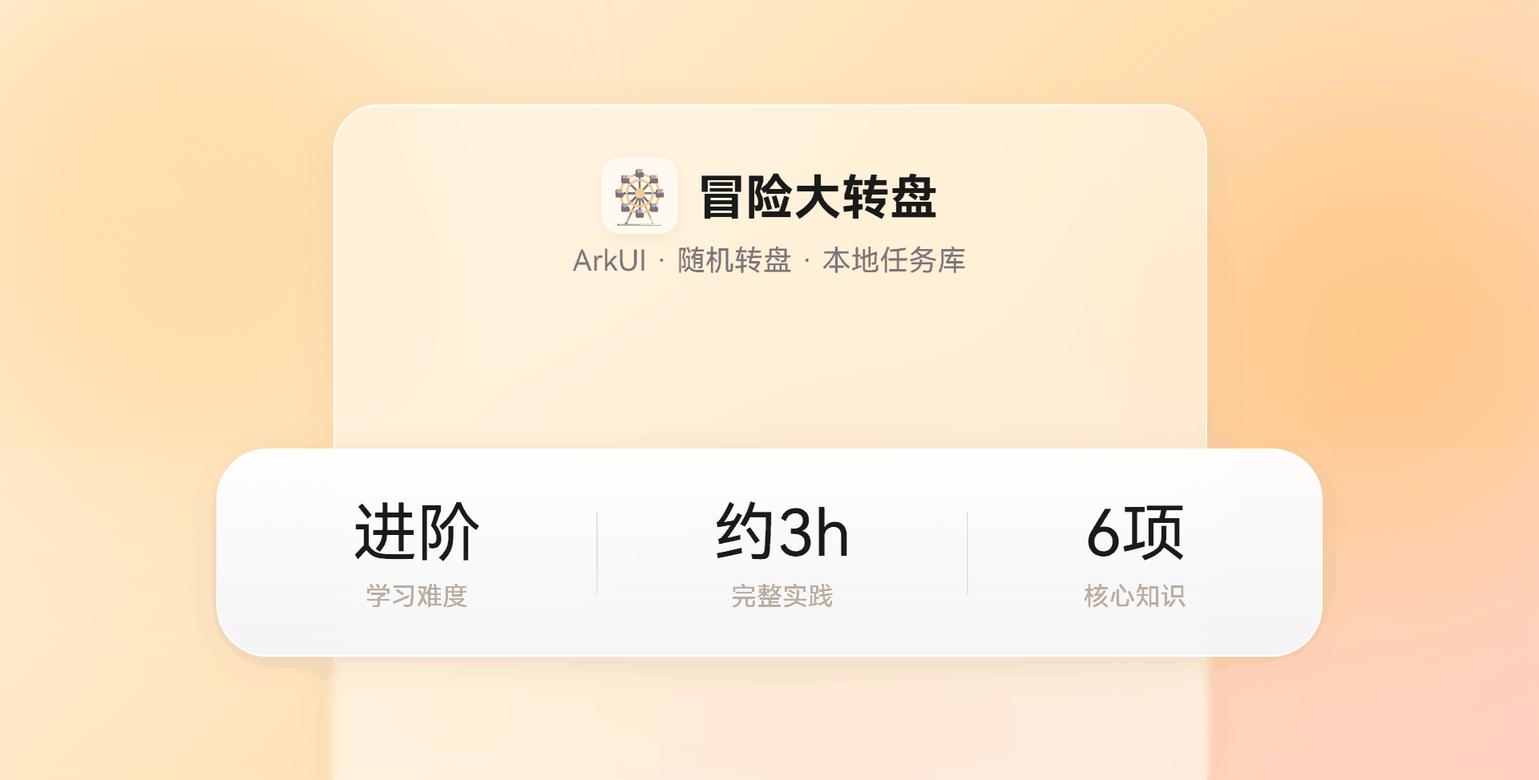
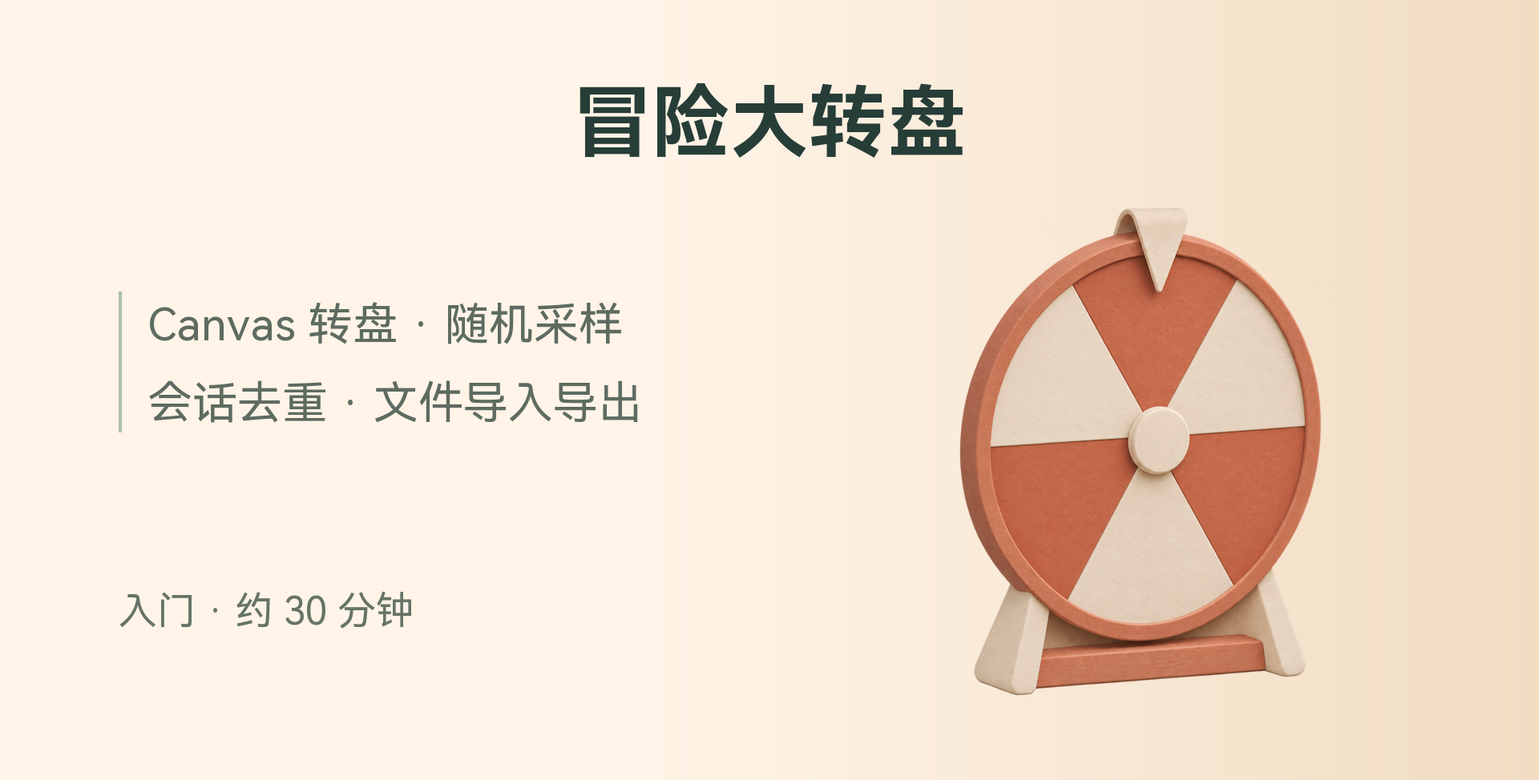
修复案例发布资料并同步快速体验档位

diff --git a/cases/practice.html b/cases/practice.html
@@ -1,16 +1,16 @@
 <h2 id="快速体验">快速体验</h2>
-<p>这条路线使用现成代码。环境就绪后预计 15–30 分钟，完成“生成清单 → 确认开局 → 抽取并交接 → 浏览任务库”。从空项目制作请看完整实践。</p>
+<p>这条路线使用现成代码。环境就绪后预计 30 分钟，完成“生成清单 → 确认开局 → 抽取并交接 → 浏览任务库”。从空项目制作请看完整实践。</p>
 <p>本案例为纯本地手机元服务：目标 API 23、最低兼容 API 20。首次获取源码、素材、SDK 和依赖时需联网，SDK、Java、Node 与构建工具须匹配，玩法不依赖服务器、数据库或游戏账号。选择云端或本地路线即可；在线工作区与云手机的配额或费用以实际账号及平台提示为准。</p>
 <p>公开工程默认不配置签名，可生成无签名 HAP。本地模拟器按官方无签名方式调试；真机使用自己的调试签名，云手机按平台实际要求。签名、口令与私人任务不提交公仓；登录、隐私同意与授权由本人决定。构建、安装与启动分别核对。</p>
 <h3 id="云端快速体验">云端快速体验</h3>
 <h4 id="第一步创建项目并导入案例">第一步：创建项目并导入案例</h4>
 <p>从<a href="https://harmonybp.developer.huaweicloud.com/">鸿蒙开发实践中心</a>案例详情进入“云端开发环境”，核对自动带入信息后创建项目。</p>
 <p>直接进入作业中心时，选择“新建项目”，填写项目名称，技术模板选“空项目”，在“案例仓地址”填写：</p>
-<pre style="white-space:pre-wrap;overflow-wrap:anywhere;word-break:break-word;max-width:100%;padding:16px;background:#f6f1e9;border-radius:10px"><code>https://gitcode.com/harmony-practice-center/HarmonyOS-AtomSer-AdventureWheel</code></pre>
+<pre><code>https://gitcode.com/harmony-practice-center/HarmonyOS-AtomSer-AdventureWheel</code></pre>
 <p>“Git 仓库地址”用于自己的版本管理，快速体验可留空；不是“案例仓地址”。</p>
 <p>完成标志：开发环境中有 <code>AppScope/</code>、<code>entry/</code>、<code>build-profile.json5</code> 和 <code>oh-package.json5</code>。</p>
 <h4 id="第二步让-ai-编译打包">第二步：让 AI 编译打包</h4>
-<pre style="white-space:pre-wrap;overflow-wrap:anywhere;word-break:break-word;max-width:100%;padding:16px;background:#f6f1e9;border-radius:10px"><code>请解析当前“冒险大转盘”工程，找到 HarmonyOS 入口，
+<pre><code>请解析当前“冒险大转盘”工程，找到 HarmonyOS 入口，
 检查现有 SDK、依赖和构建工具，编译生成 HAP。
 可自行处理的问题根据日志修复并重新构建，保持现有功能、包名、
 目标 API 23 和最低兼容 API 20。
@@ -21,7 +21,7 @@
 <p>进入“设备管理 → 鸿蒙云手机”，按当前平台流程选择满足工程要求的手机镜像，创建并连接设备。</p>
 <p>完成标志：云手机运行，开发环境能识别设备。</p>
 <h4 id="第四步让-ai-安装并打开">第四步：让 AI 安装并打开</h4>
-<pre style="white-space:pre-wrap;overflow-wrap:anywhere;word-break:break-word;max-width:100%;padding:16px;background:#f6f1e9;border-radius:10px"><code>请识别已连接的鸿蒙云手机，将刚才生成的 HAP 推送、安装，
+<pre><code>请识别已连接的鸿蒙云手机，将刚才生成的 HAP 推送、安装，
 并启动“冒险大转盘”元服务。多个设备时先列出让我选择。
 失败时依据实际错误排查；需要我准备签名或操作时告诉我。
 完成后告诉我使用的设备，以及是否已打开首页。</code></pre>
@@ -39,13 +39,13 @@
 <p>按<a href="https://support.huaweicloud.com/usermanual-codeartsagent/codeartsagent_ug_0002.html">码道安装指导</a>准备 IDE，安装 <a href="https://developer.huawei.com/consumer/cn/deveco-studio/resources/">HarmonyOS Command Line Tools</a>，工具用法见<a href="https://developer.huawei.com/consumer/cn/doc/harmonyos-guides/ide-commandline-get">官方指导</a>。</p>
 <p>完成标志：码道能打开文件夹并使用 AI 对话，命令行工具就绪。</p>
 <h4 id="第二步让-ai-获取案例代码">第二步：让 AI 获取案例代码</h4>
-<pre style="white-space:pre-wrap;overflow-wrap:anywhere;word-break:break-word;max-width:100%;padding:16px;background:#f6f1e9;border-radius:10px"><code>请把下面的“冒险大转盘”案例拉取到当前工作区的独立目录：
+<pre><code>请把下面的“冒险大转盘”案例拉取到当前工作区的独立目录：
 https://gitcode.com/harmony-practice-center/HarmonyOS-AtomSer-AdventureWheel
 使用默认分支最新代码，保留已有文件，不覆盖已有工程。
 完成后找到 HarmonyOS 工程入口，告诉我代码位置和接下来使用的目录。</code></pre>
 <p>完成标志：案例目录有 <code>AppScope/</code>、<code>entry/</code>、<code>build-profile.json5</code> 和 <code>oh-package.json5</code>。</p>
 <h4 id="第三步让-ai-编译打包">第三步：让 AI 编译打包</h4>
-<pre style="white-space:pre-wrap;overflow-wrap:anywhere;word-break:break-word;max-width:100%;padding:16px;background:#f6f1e9;border-radius:10px"><code>请解析刚才获取的“冒险大转盘”，检查本机 SDK、依赖和构建工具，
+<pre><code>请解析刚才获取的“冒险大转盘”，检查本机 SDK、依赖和构建工具，
 使用已有工具编译生成 HAP。可自行处理的问题根据日志修复并重新构建，
 保持现有功能、包名、目标 API 23 和最低兼容 API 20。
 需要安装工具、修改环境或变更需求时，先说明，由我决定。
@@ -53,13 +53,13 @@ https://gitcode.com/harmony-practice-center/HarmonyOS-AtomSer-AdventureWheel
 <p>完成标志：构建成功，HAP 存在。</p>
 <h4 id="第四步准备模拟器">第四步：准备模拟器</h4>
 <p>按<a href="https://developer.huawei.com/consumer/cn/doc/HarmonyOS-Guides/ide-emulator-create">官方指导</a>准备手机模拟器；已有模拟器可复用。在码道输入：</p>
-<pre style="white-space:pre-wrap;overflow-wrap:anywhere;word-break:break-word;max-width:100%;padding:16px;background:#f6f1e9;border-radius:10px"><code>请检查本机现有 HarmonyOS 模拟器及连接状态。
+<pre><code>请检查本机现有 HarmonyOS 模拟器及连接状态。
 有符合工程要求的模拟器时启动并确认连接。
 如需创建设备、下载镜像或修改环境，先告诉我如何处理，由我决定。
 告诉我可用目标；若未识别到设备，请定位连接问题并给出恢复方式。</code></pre>
 <p>完成标志：模拟器运行，AI 能识别设备。</p>
 <h4 id="第五步让-ai-安装并打开">第五步：让 AI 安装并打开</h4>
-<pre style="white-space:pre-wrap;overflow-wrap:anywhere;word-break:break-word;max-width:100%;padding:16px;background:#f6f1e9;border-radius:10px"><code>请识别本机已启动并连接的 HarmonyOS 模拟器，
+<pre><code>请识别本机已启动并连接的 HarmonyOS 模拟器，
 将刚才生成的 HAP 推送、安装，并启动“冒险大转盘”元服务。
 本地模拟器优先按官方无签名方式调试，不要先要求我准备真机签名。
 多个设备时先列出让我选择。失败时依据实际错误排查；
@@ -79,7 +79,7 @@ https://gitcode.com/harmony-practice-center/HarmonyOS-AtomSer-AdventureWheel
 <p>按顺序使用提示词，每步核对完成标志再继续。需求与技术文档保存在自己的项目中，后续都以它们为依据；不同工具可能需要多轮修复，不承诺一次生成相同作品。</p>
 <h3 id="统一教学素材">统一教学素材</h3>
 <p>教学素材采用“基础 v1.0 ＋ 2026-10-24 勘误”：190 条内置任务和 2026-10-02 的中文手机模拟器原图。固定下载保持原始版本；取得素材时按下方提示校订 truth-090 正文和文件大小单位，校订后再开发。字段和用途见<a href="https://gitcode.com/harmony-practice-center/HarmonyOS-AtomSer-AdventureWheel/blob/master/docs/%E5%AE%9E%E8%B7%B5%E7%B4%A0%E6%9D%90%E8%AF%B4%E6%98%8E.md">实践素材说明</a>，迁移契约见<a href="https://gitcode.com/harmony-practice-center/HarmonyOS-AtomSer-AdventureWheel/blob/master/docs/%E4%BB%BB%E5%8A%A1%E6%96%87%E4%BB%B6%E6%A0%BC%E5%BC%8F.md">任务文件格式</a>。</p>
-<table style="border-collapse:collapse;width:100%">
+<table>
 <thead>
 <tr>
 <th>素材</th>
@@ -141,7 +141,7 @@ https://gitcode.com/harmony-practice-center/HarmonyOS-AtomSer-AdventureWheel
 <h3 id="步骤-1检查空项目与开发环境">步骤 1：检查空项目与开发环境</h3>
 <p>目标：确认工具条件，不修改环境、不创建工程。</p>
 <p>复制给 AI：</p>
-<pre style="white-space:pre-wrap;overflow-wrap:anywhere;word-break:break-word;max-width:100%;padding:16px;background:#f6f1e9;border-radius:10px"><code>我准备开发一个叫“冒险大转盘”的鸿蒙元服务。
+<pre><code>我准备开发一个叫“冒险大转盘”的鸿蒙元服务。
 请先只读检查当前工作区及必要的开发工具，包括 SDK、构建工具和设备连接。
 能检查的自己检查，使用已有工具，先不要创建项目。
 如果缺少工具、需要下载镜像或修改环境，告诉我怎么处理，由我决定。</code></pre>
@@ -149,7 +149,7 @@ https://gitcode.com/harmony-practice-center/HarmonyOS-AtomSer-AdventureWheel
 <h3 id="步骤-2取得素材确定产品与视觉方案">步骤 2：取得素材，确定产品与视觉方案</h3>
 <p>目标：固定数据与体验，输出后续可引用的需求和技术文档。</p>
 <p>复制给 AI：</p>
-<pre style="white-space:pre-wrap;overflow-wrap:anywhere;word-break:break-word;max-width:100%;padding:16px;background:#f6f1e9;border-radius:10px"><code>请只下载下列教学素材到 reference/，不要克隆案例源码。
+<pre><code>请只下载下列教学素材到 reference/，不要克隆案例源码。
 内置任务-v1.0.json：https://api.gitcode.com/api/v5/repos/harmony-practice-center/HarmonyOS-AtomSer-AdventureWheel/raw/data/%E5%86%85%E7%BD%AE%E4%BB%BB%E5%8A%A1-v1.0.json?ref=abe5f1bffcf0c801f5d9a530d4b49a321456cb7e
 实践素材说明.md：https://api.gitcode.com/api/v5/repos/harmony-practice-center/HarmonyOS-AtomSer-AdventureWheel/raw/docs/%E5%AE%9E%E8%B7%B5%E7%B4%A0%E6%9D%90%E8%AF%B4%E6%98%8E.md?ref=abe5f1bffcf0c801f5d9a530d4b49a321456cb7e
 任务文件格式.md：https://api.gitcode.com/api/v5/repos/harmony-practice-center/HarmonyOS-AtomSer-AdventureWheel/raw/docs/%E4%BB%BB%E5%8A%A1%E6%96%87%E4%BB%B6%E6%A0%BC%E5%BC%8F.md?ref=abe5f1bffcf0c801f5d9a530d4b49a321456cb7e
@@ -190,7 +190,7 @@ https://gitcode.com/harmony-practice-center/HarmonyOS-AtomSer-AdventureWheel
 <h3 id="步骤-3创建可编译的原生工程">步骤 3：创建可编译的原生工程</h3>
 <p>目标：先让工程骨架能够打包。</p>
 <p>复制给 AI：</p>
-<pre style="white-space:pre-wrap;overflow-wrap:anywhere;word-break:break-word;max-width:100%;padding:16px;background:#f6f1e9;border-radius:10px"><code>现在按照已确认的“需求文档.md”和“技术文档.md”开发。
+<pre><code>现在按照已确认的“需求文档.md”和“技术文档.md”开发。
 创建 ArkTS / ArkUI、Stage 模型的手机元服务工程，
 目标 API 23、最低兼容 API 20，编译 SDK 使用匹配工具链。
 先建立首页、转盘页、任务库及导航骨架，使用已确认的视觉方案。
@@ -202,7 +202,7 @@ https://gitcode.com/harmony-practice-center/HarmonyOS-AtomSer-AdventureWheel
 <h3 id="步骤-4接入数据实现首屏与主要入口">步骤 4：接入数据，实现首屏与主要入口</h3>
 <p>目标：从教学数据开始，完成开局前选择与确认。</p>
 <p>复制给 AI：</p>
-<pre style="white-space:pre-wrap;overflow-wrap:anywhere;word-break:break-word;max-width:100%;padding:16px;background:#f6f1e9;border-radius:10px"><code>按两份文档接入 reference/内置任务-v1.0.json，保留稳定 ID。
+<pre><code>按两份文档接入 reference/内置任务-v1.0.json，保留稳定 ID。
 truth/dare 对应真心话/大冒险，light/medium/deep 对应轻松/适中/深入。
 实现首页玩法、2–20 个任务、最高挑战程度和任务库入口。
 “立即开始”先生成不重复清单，展示完整任务、类型和程度；
@@ -214,7 +214,7 @@ truth/dare 对应真心话/大冒险，light/medium/deep 对应轻松/适中/深
 <h3 id="步骤-5完成核心业务逻辑">步骤 5：完成核心业务逻辑</h3>
 <p>目标：确保随机命中、完成状态与指针结果一致。</p>
 <p>复制给 AI：</p>
-<pre style="white-space:pre-wrap;overflow-wrap:anywhere;word-break:break-word;max-width:100%;padding:16px;background:#f6f1e9;border-radius:10px"><code>按两份文档完成本局抽取，与绘制和动画分开。
+<pre><code>按两份文档完成本局抽取，与绘制和动画分开。
 开局无重复随机抽样，每次只从尚未处理任务中随机选取。
 先决定目标，再计算停止角度，使固定指针准确落到对应扇区。
 旋转中禁止重复点击。结果显示后“交给下一位”才记录完成、
@@ -227,7 +227,7 @@ truth/dare 对应真心话/大冒险，light/medium/deep 对应轻松/适中/深
 <h3 id="步骤-6完善核心交互与结果呈现">步骤 6：完善核心交互与结果呈现</h3>
 <p>目标：自然衔接转动与结果，界面可读、可操作。</p>
 <p>复制给 AI：</p>
-<pre style="white-space:pre-wrap;overflow-wrap:anywhere;word-break:break-word;max-width:100%;padding:16px;background:#f6f1e9;border-radius:10px"><code>按视觉方案和 reference/ 图片完善转盘与结果页。
+<pre><code>按视觉方案和 reference/ 图片完善转盘与结果页。
 用 Canvas 侧壁、阴影和透视呈现 2.5D，先快后慢，停稳后突出命中。
 短暂停顿后，以缩放、透明度或位移动画展示上下居中的结果卡片。
 完整任务放在卡片内，扇区只放简短标识，不挤满长文字。
@@ -239,8 +239,8 @@ truth/dare 对应真心话/大冒险，light/medium/deep 对应轻松/适中/深
 <h3 id="步骤-7补齐本地任务文件迁移与异常恢复">步骤 7：补齐本地任务、文件迁移与异常恢复</h3>
 <p>目标：保存自己的玩法，安全地合并与迁移。</p>
 <p>复制给 AI：</p>
-<pre style="white-space:pre-wrap;overflow-wrap:anywhere;word-break:break-word;max-width:100%;padding:16px;background:#f6f1e9;border-radius:10px"><code>按两份文档实现“我添加的”管理，用 Preferences 保存任务和首页设置。
-支持新增、编辑、启停、删除。正文去首尾空白后非空、最多 30 个 Unicode 字符；
+<pre><code>按两份文档实现“我添加的”管理，用 Preferences 保存任务和首页设置。
+支持新增、编辑、启停、删除。正文去首尾空白后非空、最多 30 个 Unicode 码点；
 输入、保存和导入使用同一规则。同类型同正文去重时忽略空白与英文大小写。
 关闭编辑不保存草稿，删除先确认；停用任务保留但不参与开局。
 本局清单和完成集合只属于当前会话，不持久化为历史完成状态。
@@ -260,7 +260,7 @@ tasks 只带 type、level、text、enabled，不带本地 ID 或时间戳。
 <h3 id="步骤-8运行并检查完整流程">步骤 8：运行并检查完整流程</h3>
 <p>目标：让 AI 操作设备，完成基础功能测试。</p>
 <p>复制给 AI：</p>
-<pre style="white-space:pre-wrap;overflow-wrap:anywhere;word-break:break-word;max-width:100%;padding:16px;background:#f6f1e9;border-radius:10px"><code>请对照两份文档编译当前作品，修复到正确打包，
+<pre><code>请对照两份文档编译当前作品，修复到正确打包，
 告诉我 HAP 实际位置和设备安装的签名条件。
 区分本地模拟器无签名调试、真机调试签名和云手机的实际安装要求。
 本地优先启动已有且符合要求的模拟器，云端使用已连接云手机。
@@ -280,7 +280,7 @@ tasks 只带 type、level、text、enabled，不带本地 ID 或时间戳。
 <p>完成标志：设备核心流程、本地保存与错误恢复符合预期，知道设备限制如何处理。</p>
 <h2 id="功能检查与排障">功能检查与排障</h2>
 <h3 id="体验检查">体验检查</h3>
-<table style="border-collapse:collapse;width:100%">
+<table>
 <thead>
 <tr>
 <th>#</th>
@@ -346,7 +346,7 @@ tasks 只带 type、level、text、enabled，不带本地 ID 或时间戳。
 <li>错误提示清楚，可恢复；日志不含凭据或私人任务。</li>
 <li>空项目实践使用统一素材，完成本页核心流程。</li>
 </ul>
-<table style="border-collapse:collapse;width:100%">
+<table>
 <thead>
 <tr>
 <th>项目</th>
@@ -387,7 +387,7 @@ tasks 只带 type、level、text、enabled，不带本地 ID 或时间戳。
 </tr>
 </tbody></table>
 <h3 id="高频问题">高频问题</h3>
-<table style="border-collapse:collapse;width:100%">
+<table>
 <thead>
 <tr>
 <th>现象/错误码</th>
@@ -452,13 +452,13 @@ tasks 只带 type、level、text、enabled，不带本地 ID 或时间戳。
 </tr>
 </tbody></table>
 <p>排查顺序：工程和素材 → 工具与构建 → 设备与签名 → 业务状态。</p>
-<pre style="white-space:pre-wrap;overflow-wrap:anywhere;word-break:break-word;max-width:100%;padding:16px;background:#f6f1e9;border-radius:10px"><code>请依据实际失败的日志或页面现象复现并定位问题。
+<pre><code>请依据实际失败的日志或页面现象复现并定位问题。
 读取我已有的需求、技术文档与数据说明，区分环境、素材、构建、设备和业务问题。
 最小修复后重跑失败步骤；需要改环境或需求先告诉我，由我决定。
 说明原因、修改内容和重试结果；仍失败时给出具体恢复方式。</code></pre>
 <h2 id="安全与清理">安全与清理</h2>
 <h3 id="实践中的安全注意事项">实践中的安全注意事项</h3>
-<table style="border-collapse:collapse;width:100%">
+<table>
 <thead>
 <tr>
 <th>项目</th>
@@ -489,7 +489,7 @@ tasks 只带 type、level、text、enabled，不带本地 ID 或时间戳。
 </tbody></table>
 <h3 id="清理资源">清理资源</h3>
 <p>结束前保存源码、两份文档、需要保留的 HAP 和任务备份。</p>
-<pre style="white-space:pre-wrap;overflow-wrap:anywhere;word-break:break-word;max-width:100%;padding:16px;background:#f6f1e9;border-radius:10px"><code>请只读检查本次工程、设备及实际创建的资源，说明成果如何保存。
+<pre><code>请只读检查本次工程、设备及实际创建的资源，说明成果如何保存。
 列出可停止的工作区、云手机或模拟器，以及仍消耗配额或费用的资源。
 需要删除、释放或撤销授权时先说明对象、影响和备份方式；
 我确认范围后再执行，并检查保留资料可继续使用。</code></pre>
@@ -500,20 +500,17 @@ tasks 只带 type、level、text、enabled，不带本地 ID 或时间戳。
 <li>保留所需配置，不误删签名原件或清空已有数据。</li>
 </ol>
 <p>完成标志：成果与备份已保存，不再使用的运行资源已停止。</p>
-<h2 id="进阶实践">进阶实践</h2>
-<h3 id="深入阅读与扩展">深入阅读与扩展</h3>
-<ul>
-<li><a href="https://gitcode.com/harmony-practice-center/HarmonyOS-AtomSer-AdventureWheel/blob/master/docs/%E8%AE%BE%E8%AE%A1%E8%AF%B4%E6%98%8E.md">设计说明</a>：页面分工、随机规则与本地架构。</li>
-<li><a href="https://gitcode.com/harmony-practice-center/HarmonyOS-AtomSer-AdventureWheel/blob/master/docs/%E4%BB%BB%E5%8A%A1%E6%96%87%E4%BB%B6%E6%A0%BC%E5%BC%8F.md">任务文件格式</a>：字段、校验、重复和合并。</li>
-<li><a href="https://gitcode.com/harmony-practice-center/HarmonyOS-AtomSer-AdventureWheel/blob/master/docs/%E6%89%B9%E9%87%8F%E8%BF%81%E7%A7%BB%E8%AF%B4%E6%98%8E.md">批量任务迁移</a>：安全拆分超限备份，逐份恢复并核对。</li>
-<li><a href="https://gitcode.com/harmony-practice-center/HarmonyOS-AtomSer-AdventureWheel/blob/master/docs/%E5%AE%9E%E8%B7%B5%E7%B4%A0%E6%9D%90%E8%AF%B4%E6%98%8E.md">实践素材说明</a>：教学数据、视觉参考和许可。</li>
-<li><a href="https://gitcode.com/harmony-practice-center/HarmonyOS-AtomSer-AdventureWheel/blob/master/docs/%E6%A1%88%E4%BE%8B%E5%AF%BC%E5%85%A5%E8%AF%B4%E6%98%8E.md">案例导入说明</a>：维护者使用的平台材料。</li>
-</ul>
-<p>可给自己的作品增加任务分类：</p>
-<pre style="white-space:pre-wrap;overflow-wrap:anywhere;word-break:break-word;max-width:100%;padding:16px;background:#f6f1e9;border-radius:10px"><code>请在我的作品中增加可编辑的自定义任务分类，支持按分类选择本局候选。
-先读取文档和实现，说明修改范围、文件版本兼容与检查方法，我确认后再实现。
-不要下载或复制案例代码，不覆盖我的任务。
-验证新增分类、旧文件导入和原有抽取、保存流程，说明使用方式与结果。</code></pre>
 <h3 id="backup-migration">超限备份的安全恢复</h3>
 <p>自定义任务导出没有总量上限，但每份导入文件最多 1000 条、大小不超过 1 MiB；JSON 与正文为 JSON 的 TXT 使用同一版本 1 契约。超限备份先在电脑上用工程附带的 <code>tools/split-task-backup.mjs</code> 安全拆分，再按编号逐份导入；不修改原备份、字段或任务顺序，也不以删任务规避限制。</p>
 <p>完整操作与可复制提示词见<a href="https://gitcode.com/harmony-practice-center/HarmonyOS-AtomSer-AdventureWheel/blob/master/docs/%E6%89%B9%E9%87%8F%E8%BF%81%E7%A7%BB%E8%AF%B4%E6%98%8E.md">批量任务迁移说明</a>。在目标设备进入“任务库 → 我添加的 → 导入任务”，逐份核对新增、重复与无效统计，并抽查正文、类型、程度和启用状态；目标设备实际恢复成功前保留原设备和完整备份。拆分核对通过不能代替目标设备恢复验收，明文备份只发给确认的接收对象。</p>
+<h2 id="进阶实践">进阶实践</h2>
+<h3>自定义任务分类</h3>
+<p>让玩家给自己的任务分类，并在开局时按类别挑选。</p>
+<h3>元服务内安全分批导出</h3>
+<p>让元服务能够分批导出任务，并保留每份备份独立导入的能力。</p>
+<h3>宽屏与多窗口布局</h3>
+<p>让转盘适配宽屏和多窗口布局。</p>
+<h3>可迁移场景</h3>
+<p><strong>聚会互动与活动抽签</strong>。把任务替换为自愿参加的互动题或活动签条，保留先确认再抽取的流程。</p>
+<p><strong>学习练习卡</strong>。把任务库换成练习题，在本轮完成后排除该题，通过文件交换自定义题组。</p>
+<p><strong>离线自定义模板</strong>。用同样的导入预览与只合并新条目策略，维护轻量活动或清单模板。</p>

diff --git a/README.md b/README.md
@@ -7,7 +7,7 @@
 | 项目 | 内容 |
 | --- | --- |
 | 适合谁 | 能使用 AI 编程工具、愿意核对界面和运行结果的开发者；不要求先会手写 ArkTS |
-| 难度与耗时 | 入门到进阶；快速体验约 15–30 分钟，从空项目实践约 2–4 小时，均为估计，不含工具、镜像下载和签名准备 |
+| 难度与耗时 | 入门 · 快速体验约 30 分钟（估算）。完整实践约 2–4 小时。按已具备通用工具链和兼容设备估算。 |
 | 你将学到 | 分阶段需求与开发、随机抽取与同局去重、转盘动画、本地持久化与文件迁移 |
 | 你将完成 | 体验现成元服务，并独立构建“设置 → 清单确认 → 轮流抽取 → 任务管理”的使用闭环 |
 | 实践环境 | 云端开发环境或本地码道 IDE；HarmonyOS 工具链、手机设备或模拟器；目标 API 23，最低兼容 API 20 |
@@ -83,7 +83,7 @@ flowchart LR
 
 云端、本地选择一条即可。无需为此案例创建云函数、数据库或服务器。在线工作区和云手机是否消耗配额或费用，以实际账号及平台提示为准。
 
-### 配置与敏感信息
+#### 敏感信息与配置边界
 
 | 配置 | 含义 | 获取位置 | 安全存放位置 |
 | --- | --- | --- | --- |
@@ -96,7 +96,7 @@ flowchart LR
 
 ## 3. 快速体验
 
-这条路线使用现成代码。环境就绪后预计 15–30 分钟，完成“生成清单 → 确认开局 → 抽取并交接 → 浏览任务库”。从空项目制作请看[完整实践](#4-完整实践)。
+这条路线使用现成代码。环境就绪后预计 30 分钟，完成“生成清单 → 确认开局 → 抽取并交接 → 浏览任务库”。从空项目制作请看[完整实践](#4-完整实践)。
 
 ### 云端快速体验
 
@@ -231,14 +231,14 @@ https://gitcode.com/harmony-practice-center/HarmonyOS-AtomSer-AdventureWheel
 
 | 素材 | 下载地址 | 保存位置 | 格式、版本与使用说明 |
 | --- | --- | --- | --- |
-| 内置任务 | [下载 JSON](https://api.gitcode.com/api/v5/repos/harmony-practice-center/HarmonyOS-AtomSer-AdventureWheel/raw/data/%E5%86%85%E7%BD%AE%E4%BB%BB%E5%8A%A1-v1.0.json?ref=abe5f1bffcf0c801f5d9a530d4b49a321456cb7e) | `reference/内置任务-v1.0.json` | UTF-8、v1.0 基础文件；按下方勘误校订后使用，仍为 95 条真心话、95 条大冒险；不是自定义导入文件 |
-| 数据与素材说明 | [下载说明](https://api.gitcode.com/api/v5/repos/harmony-practice-center/HarmonyOS-AtomSer-AdventureWheel/raw/docs/%E5%AE%9E%E8%B7%B5%E7%B4%A0%E6%9D%90%E8%AF%B4%E6%98%8E.md?ref=abe5f1bffcf0c801f5d9a530d4b49a321456cb7e) | `reference/实践素材说明.md` | 字段、枚举、用途和许可 |
-| 迁移文件契约 | [下载说明](https://api.gitcode.com/api/v5/repos/harmony-practice-center/HarmonyOS-AtomSer-AdventureWheel/raw/docs/%E4%BB%BB%E5%8A%A1%E6%96%87%E4%BB%B6%E6%A0%BC%E5%BC%8F.md?ref=abe5f1bffcf0c801f5d9a530d4b49a321456cb7e) | `reference/任务文件格式.md` | 自定义文件格式版本 1；下载后按下方勘误统一 1 MiB 单位 |
-| 首页 | [查看原图](https://api.gitcode.com/api/v5/repos/harmony-practice-center/HarmonyOS-AtomSer-AdventureWheel/raw/docs/images/%E5%AE%9E%E6%8B%8D-20261002/%E9%A6%96%E9%A1%B5.jpeg?ref=abe5f1bffcf0c801f5d9a530d4b49a321456cb7e) | `reference/首页.jpeg` | JPEG、1256×2760；玩法、数量与程度 |
-| 转盘 | [查看原图](https://api.gitcode.com/api/v5/repos/harmony-practice-center/HarmonyOS-AtomSer-AdventureWheel/raw/docs/images/%E5%AE%9E%E6%8B%8D-20261002/%E8%BD%AC%E7%9B%98.jpeg?ref=abe5f1bffcf0c801f5d9a530d4b49a321456cb7e) | `reference/转盘.jpeg` | 2.5D 转盘及两个已处理扇区 |
-| 任务库 | [查看原图](https://api.gitcode.com/api/v5/repos/harmony-practice-center/HarmonyOS-AtomSer-AdventureWheel/raw/docs/images/%E5%AE%9E%E6%8B%8D-20261002/%E4%BB%BB%E5%8A%A1%E5%BA%93.jpeg?ref=abe5f1bffcf0c801f5d9a530d4b49a321456cb7e) | `reference/任务库.jpeg` | 内置内容与搜索筛选 |
-| 任务确认 | [查看原图](https://api.gitcode.com/api/v5/repos/harmony-practice-center/HarmonyOS-AtomSer-AdventureWheel/raw/docs/images/%E5%AE%9E%E6%8B%8D-20261002/%E4%BB%BB%E5%8A%A1%E7%A1%AE%E8%AE%A4.jpeg?ref=abe5f1bffcf0c801f5d9a530d4b49a321456cb7e) | `reference/任务确认.jpeg` | 实际清单，可重新生成 |
-| 抽取结果 | [查看原图](https://api.gitcode.com/api/v5/repos/harmony-practice-center/HarmonyOS-AtomSer-AdventureWheel/raw/docs/images/%E5%AE%9E%E6%8B%8D-20261002/%E6%8A%BD%E5%8F%96%E7%BB%93%E6%9E%9C.jpeg?ref=abe5f1bffcf0c801f5d9a530d4b49a321456cb7e) | `reference/抽取结果.jpeg` | 居中卡片、正文与交接 |
+| 内置任务 | [下载 JSON](https://api.gitcode.com/api/v5/repos/harmony-practice-center/HarmonyOS-AtomSer-AdventureWheel/raw/data/%E5%86%85%E7%BD%AE%E4%BB%BB%E5%8A%A1-v1.0.json?ref=abe5f1bffcf0c801f5d9a530d4b49a321456cb7e) | 示例路径 `reference/内置任务-v1.0.json` | UTF-8、v1.0 基础文件；按下方勘误校订后使用，仍为 95 条真心话、95 条大冒险；不是自定义导入文件 |
+| 数据与素材说明 | [下载说明](https://api.gitcode.com/api/v5/repos/harmony-practice-center/HarmonyOS-AtomSer-AdventureWheel/raw/docs/%E5%AE%9E%E8%B7%B5%E7%B4%A0%E6%9D%90%E8%AF%B4%E6%98%8E.md?ref=abe5f1bffcf0c801f5d9a530d4b49a321456cb7e) | 示例路径 `reference/实践素材说明.md` | 字段、枚举、用途和许可 |
+| 迁移文件契约 | [下载说明](https://api.gitcode.com/api/v5/repos/harmony-practice-center/HarmonyOS-AtomSer-AdventureWheel/raw/docs/%E4%BB%BB%E5%8A%A1%E6%96%87%E4%BB%B6%E6%A0%BC%E5%BC%8F.md?ref=abe5f1bffcf0c801f5d9a530d4b49a321456cb7e) | 示例路径 `reference/任务文件格式.md` | 自定义文件格式版本 1；下载后按下方勘误统一 1 MiB 单位 |
+| 首页 | [查看原图](https://api.gitcode.com/api/v5/repos/harmony-practice-center/HarmonyOS-AtomSer-AdventureWheel/raw/docs/images/%E5%AE%9E%E6%8B%8D-20261002/%E9%A6%96%E9%A1%B5.jpeg?ref=abe5f1bffcf0c801f5d9a530d4b49a321456cb7e) | 示例路径 `reference/首页.jpeg` | JPEG、1256×2760；玩法、数量与程度 |
+| 转盘 | [查看原图](https://api.gitcode.com/api/v5/repos/harmony-practice-center/HarmonyOS-AtomSer-AdventureWheel/raw/docs/images/%E5%AE%9E%E6%8B%8D-20261002/%E8%BD%AC%E7%9B%98.jpeg?ref=abe5f1bffcf0c801f5d9a530d4b49a321456cb7e) | 示例路径 `reference/转盘.jpeg` | 2.5D 转盘及两个已处理扇区 |
+| 任务库 | [查看原图](https://api.gitcode.com/api/v5/repos/harmony-practice-center/HarmonyOS-AtomSer-AdventureWheel/raw/docs/images/%E5%AE%9E%E6%8B%8D-20261002/%E4%BB%BB%E5%8A%A1%E5%BA%93.jpeg?ref=abe5f1bffcf0c801f5d9a530d4b49a321456cb7e) | 示例路径 `reference/任务库.jpeg` | 内置内容与搜索筛选 |
+| 任务确认 | [查看原图](https://api.gitcode.com/api/v5/repos/harmony-practice-center/HarmonyOS-AtomSer-AdventureWheel/raw/docs/images/%E5%AE%9E%E6%8B%8D-20261002/%E4%BB%BB%E5%8A%A1%E7%A1%AE%E8%AE%A4.jpeg?ref=abe5f1bffcf0c801f5d9a530d4b49a321456cb7e) | 示例路径 `reference/任务确认.jpeg` | 实际清单，可重新生成 |
+| 抽取结果 | [查看原图](https://api.gitcode.com/api/v5/repos/harmony-practice-center/HarmonyOS-AtomSer-AdventureWheel/raw/docs/images/%E5%AE%9E%E6%8B%8D-20261002/%E6%8A%BD%E5%8F%96%E7%BB%93%E6%9E%9C.jpeg?ref=abe5f1bffcf0c801f5d9a530d4b49a321456cb7e) | 示例路径 `reference/抽取结果.jpeg` | 居中卡片、正文与交接 |
 
 数据、文字说明为 Apache-2.0；截图用于本案例学习与复现，系统图形和第三方标识不因此取得同一授权，详见 [NOTICE](./NOTICE.md)。
 
@@ -390,7 +390,7 @@ truth/dare 对应真心话/大冒险，light/medium/deep 对应轻松/适中/深
 
 ```text
 按两份文档实现“我添加的”管理，用 Preferences 保存任务和首页设置。
-支持新增、编辑、启停、删除。正文去首尾空白后非空、最多 30 个 Unicode 字符；
+支持新增、编辑、启停、删除。正文去首尾空白后非空、最多 30 个 Unicode 码点；
 输入、保存和导入使用同一规则。同类型同正文去重时忽略空白与英文大小写。
 关闭编辑不保存草稿，删除先确认；停用任务保留但不参与开局。
 本局清单和完成集合只属于当前会话，不持久化为历史完成状态。
@@ -565,14 +565,31 @@ tasks 只带 type、level、text、enabled，不带本地 ID 或时间戳。
 - [实践素材说明](./docs/实践素材说明.md)：教学数据、视觉参考和许可。
 - [案例导入说明](./docs/案例导入说明.md)：维护者使用的平台材料。
 
-可给自己的作品增加任务分类：
+### 自定义任务分类
 
-```text
-请在我的作品中增加可编辑的自定义任务分类，支持按分类选择本局候选。
-先读取文档和实现，说明修改范围、文件版本兼容与检查方法，我确认后再实现。
-不要下载或复制案例代码，不覆盖我的任务。
-验证新增分类、旧文件导入和原有抽取、保存流程，说明使用方式与结果。
-```
+朋友聚会换主题时，可以从适合当前场合的任务池开始。
+
+兼顾未分类的旧任务、既有备份及空类别的处理。
+
+### 元服务内安全分批导出
+
+任务较多时，用户可以分批保存和转移资料，避免一次导出容量过大。
+
+考虑单份体积限制、批次识别与重复导入时的处理。
+
+### 宽屏与多窗口布局
+
+玩家在平板或分屏中打开转盘时，也能方便地操作并查看结果。
+
+兼顾大屏布局与原手机流程，明确不同窗口宽度下的操作区。
+
+### 可迁移场景
+
+**聚会互动与活动抽签**。把任务替换为自愿参加的互动题或活动签条，保留先确认再抽取的流程。
+
+**学习练习卡**。把任务库换成练习题，在本轮完成后排除该题，通过文件交换自定义题组。
+
+**离线自定义模板**。用同样的导入预览与只合并新条目策略，维护轻量活动或清单模板。
 
 ## 8. 参考与维护
 
@@ -591,9 +608,9 @@ tasks 只带 type、level、text、enabled，不带本地 ID 或时间戳。
 
 | 项目 | 内容 |
 | --- | --- |
-| 维护团队 | 鸿蒙开发实践中心 · 在线开发实践平台 |
+| 维护团队 | 鸿蒙开发实践中心|
 | 当前案例版本 | 文档 v1.2；教学素材基础 v1.0 ＋ 2026-10-24 勘误；工程版本 `1.0.0` |
-| 文档更新日期 | 2026-10-24 |
+| 文档更新日期 | 2026-11-23 |
 | 代码获取方式 | 默认分支最新内容 |
 | 教学素材版本 | 基础 v1.0 固定下载；数据和文字按 2026-10-24 勘误校订，五张原图保持原版本 |
 | 实践路径 | 第 3 章体验现成代码，第 4 章从空项目独立构建 |
@@ -601,6 +618,8 @@ tasks 只带 type、level、text、enabled，不带本地 ID 或时间戳。
 
 #### 案例迭代记录
 
+
+- 2026-11-23。将已有拓展方向改成场景、价值和设计取舍说明，并精简对应的案例详情卡片。
 - 2026-10-24：修复任务库返回首页统计与转盘回调清理，校正任务注释、truth-090正文及1 MiB单位；同步素材勘误、教学检查与五段教程。
 
 - 2026-08-26：樱桃可乐配色、2.5D 转盘、本地任务库、同局标记和 TXT / JSON 迁移。
